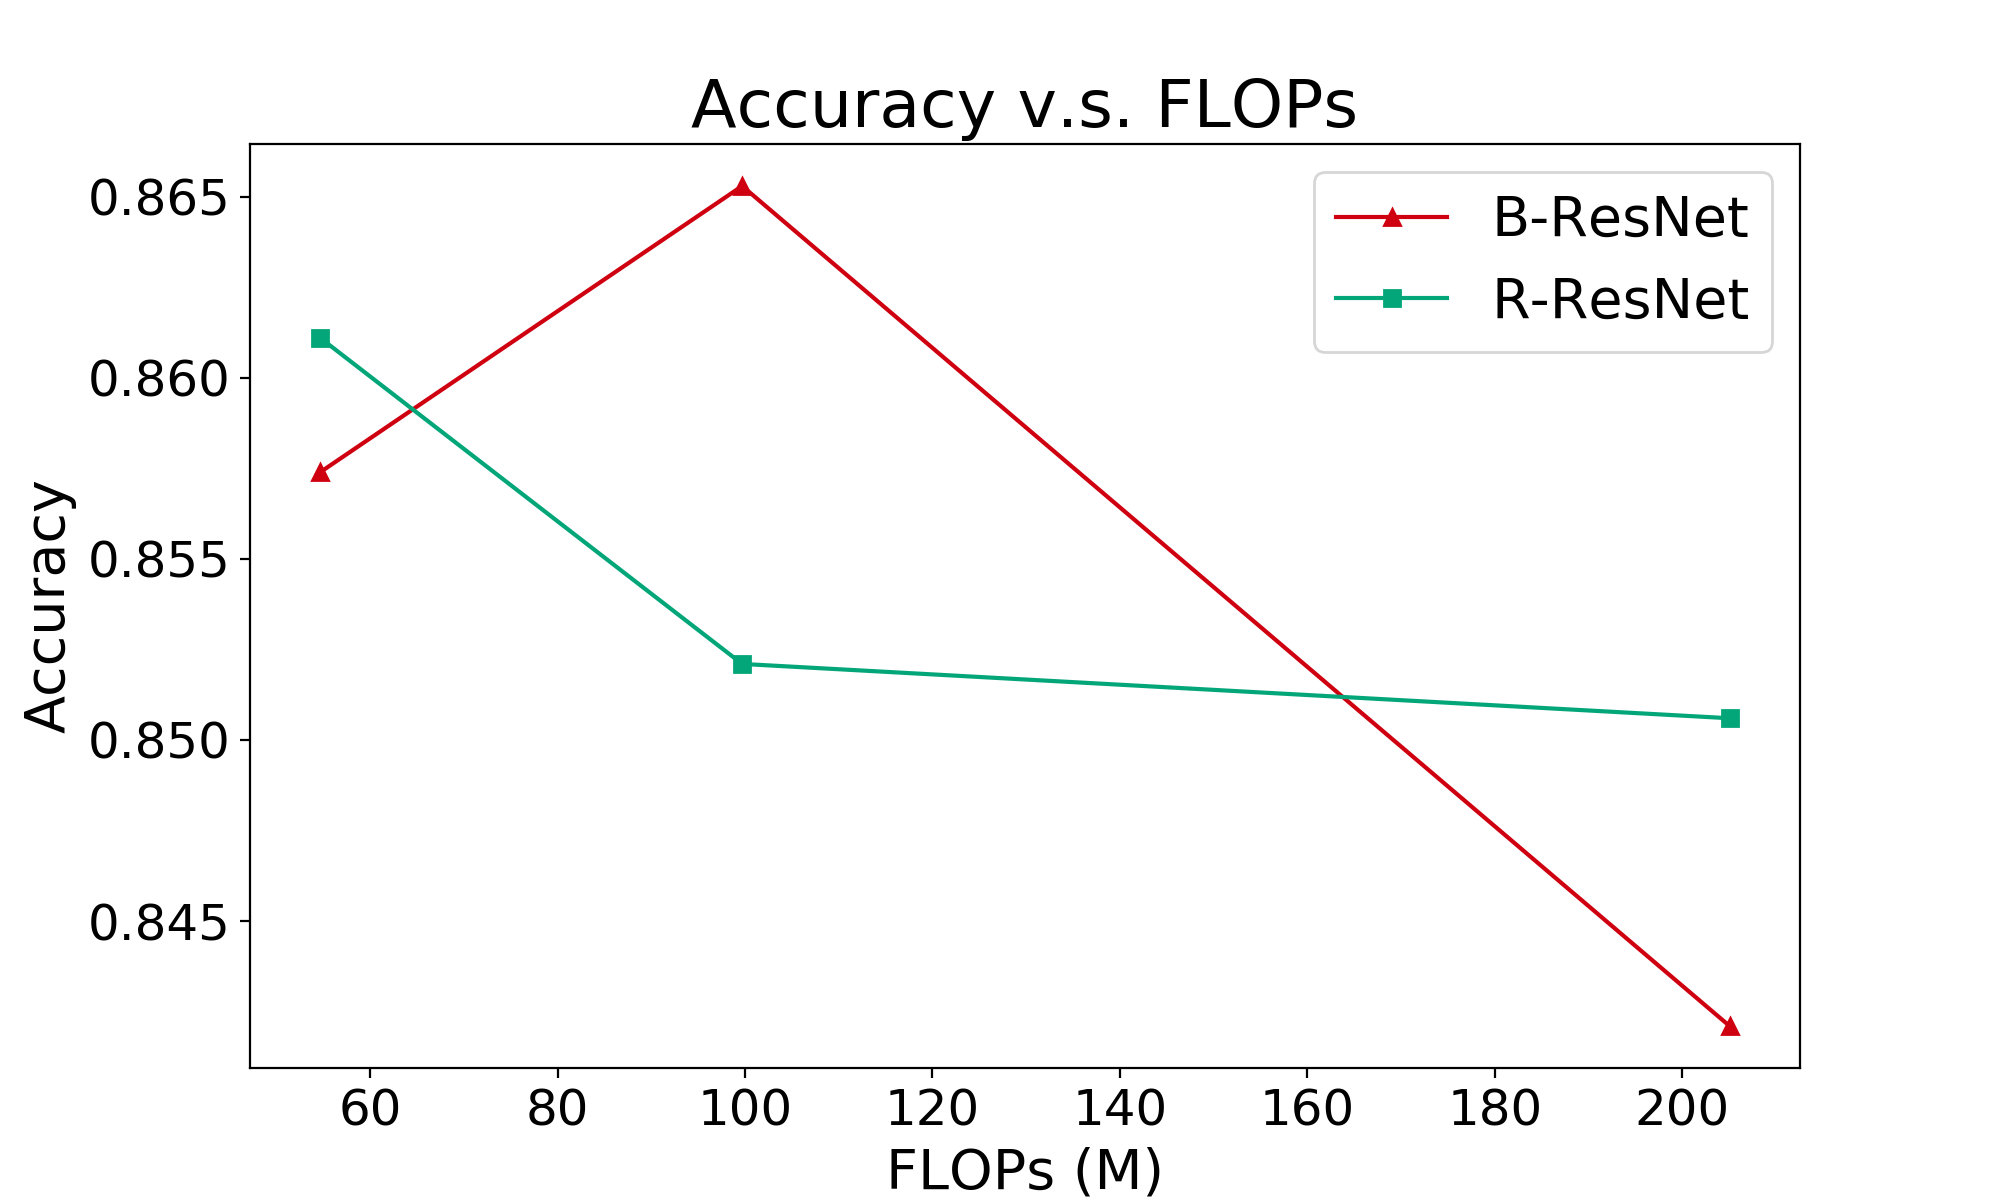
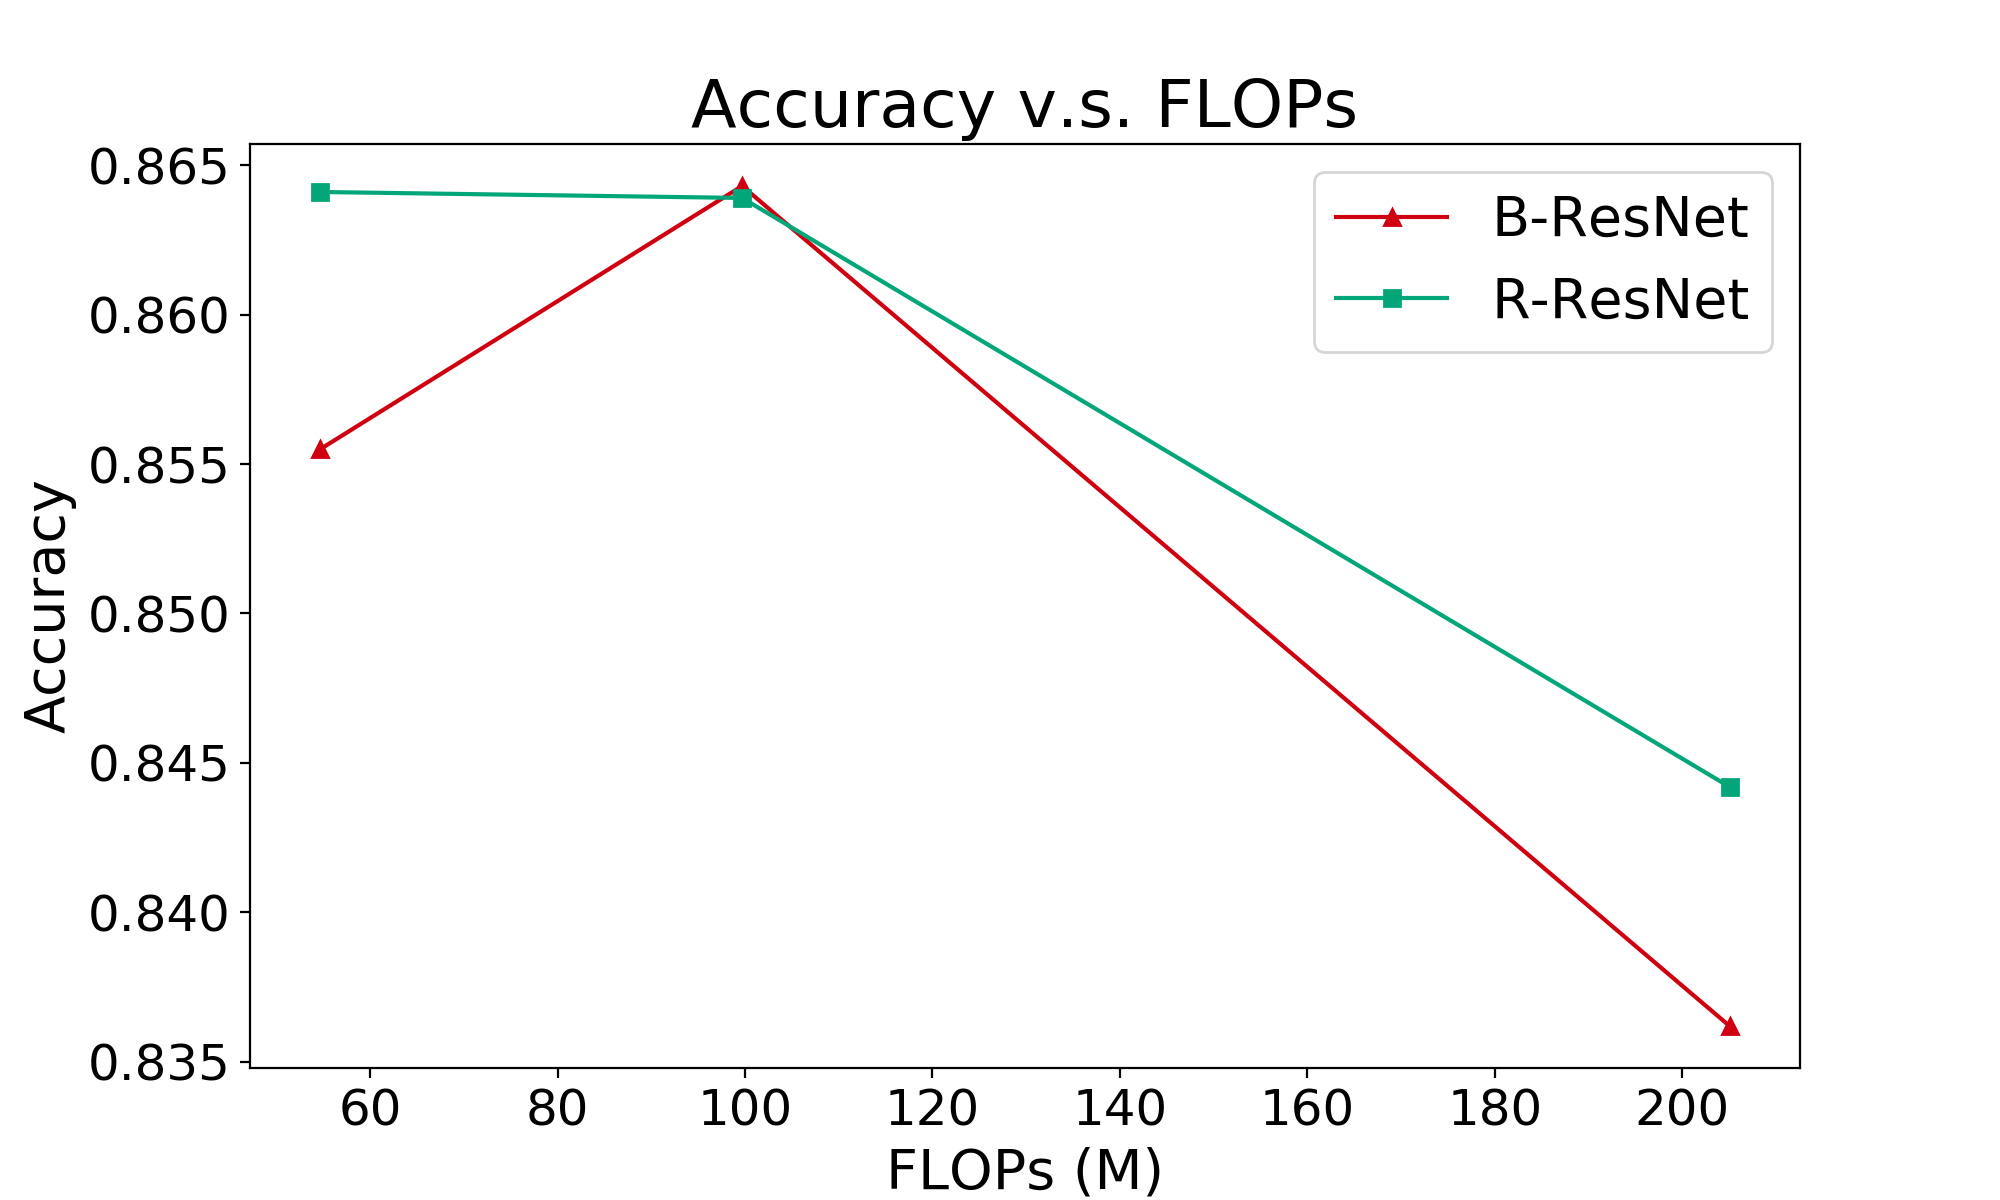
Conducts the resnet experiments with the new class.

diff --git a/resnet/plot_resnet_experiments.py b/resnet/plot_resnet_experiments.py
@@ -8,8 +8,6 @@ sys.path.append('../bibd')
 from bibd_layer import BibdLinear, RandomSparseLinear, generate_fake_bibd_mask, BibdConv2d, RandomSparseConv2d, bibd_sparsity
 import numpy as np
 from models.sparse_resnet_v import create_resnet
-# from models.resnet import ResNet18, ResNet34, ResNet50, ResNet101
-# from models.resnet_bibd import BResNet18, BResNet34, BResNet50, BResNet101
 from art import tprint
 
 tprint('IDDL', font='larry3d')
@@ -20,7 +18,7 @@ SELECTED_INDEX_LIST = [0, 1, 2]
 MODEL_INDEX_LIST = [0, 1, 2]
 
 # Load the name and accuracy array
-TIME = '20200513_062758'
+TIME = '20200516_072746'
 accuracy_filename = 'accuracy_array_{}.pkl'.format(TIME)
 accuracy_array = pickle.load(open(accuracy_filename, 'rb'))
 print('accuracy_array:')
@@ -29,7 +27,7 @@ accuracy_ndarray = accuracy_array.reshape((3, MODEL_COUNT))
 name_filename = 'model_name_array_{}.pkl'.format(TIME)
 name_array = pickle.load(open(name_filename, 'rb'))
 
-gpu_index = 0
+gpu_index = 2
 if torch.cuda.is_available():
     device = torch.device("cuda:{}".format(gpu_index))
     print('CUDA available. PyTorch version:', torch.__version__, ' Device:', device)
